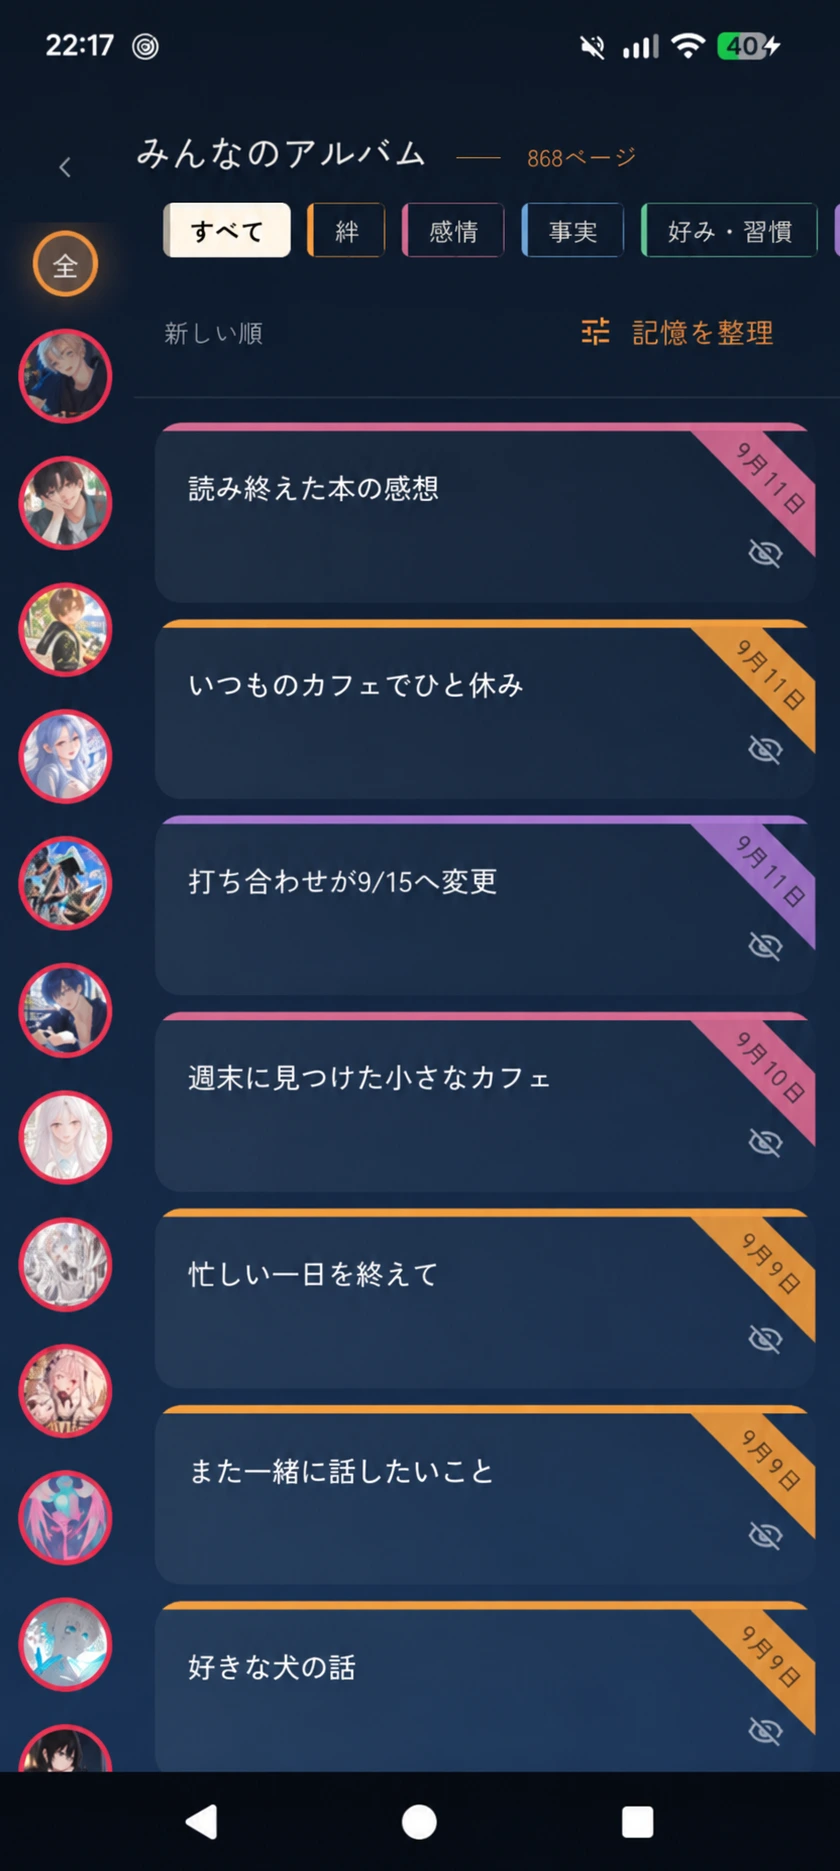
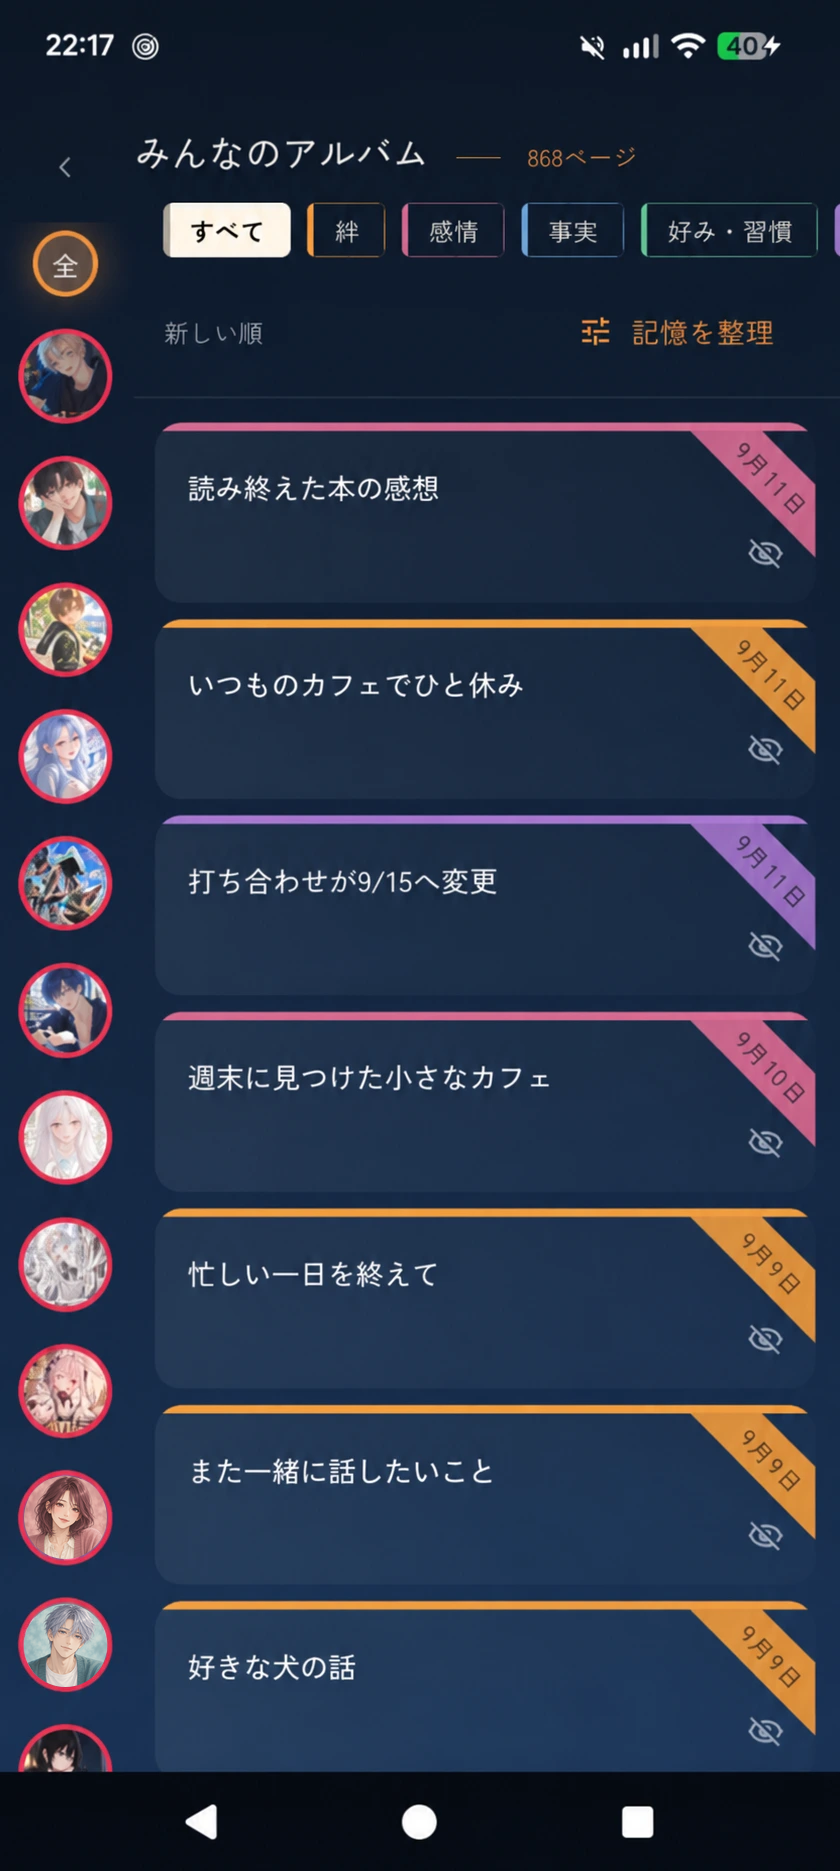
Refine welcome room background and screenshot portraits

Changed region(s): [[0.031, 0.775, 0.1238, 0.899]]

diff --git a/assets/site.css b/assets/site.css
@@ -584,12 +584,12 @@ h2 {
   --dim:clamp(0,calc((var(--voice-progress,0) - .8) / .15),1)
 }
 
-/* The hero's home returns here as a presence, not a picture. */
+/* A wider view of home leaves room for the floating words. */
 .voice-room {
   position:absolute;
   inset:-5%;
   z-index:-4;
-  background:url("images/home-together-v2.webp") center 46%/cover no-repeat;
+  background:url("images/welcome-home.webp") center 46%/cover no-repeat;
   filter:saturate(1.1) blur(3px);
   opacity:calc(.1 + .6 * var(--lit) - .1 * var(--dim));
   transition:opacity .6s ease-out;
@@ -831,11 +831,12 @@ h2 {
   gap:20px;
   font-size:10px;
   letter-spacing:.18em;
-  color:#abb4c08a
+  color:#c4cbd4;
+  text-shadow:0 1px 5px #09131fcc
 }
 
 .voices-bottom span:last-child {
-  color:#fcebba8c
+  color:#fcebba
 }
 
 .features {
@@ -1972,7 +1973,7 @@ footer {
   }
 
   .voices-bottom span:first-child {
-    opacity:.8
+    opacity:1
   }
 
   .features {

diff --git a/index.html b/index.html
@@ -117,7 +117,7 @@
   </div>
 </section>
 
-<!-- Released app captures. Welcome/calendar/album text edited for presentation; living is supplied as-is. -->
+<!-- Released app captures. Selected text and character portraits edited for presentation. -->
 <section class="section features" id="features" aria-labelledby="features-title">
   <span class="mote m3" style="left:8%" aria-hidden="true"></span>
   <span class="mote m2" style="left:88%" aria-hidden="true"></span>

diff --git a/HANDOFF.md b/HANDOFF.md
@@ -23,11 +23,12 @@
 | ファイル（assets/images/） | 内容・由来 |
 |---|---|
 | home-together-v2.webp | FV。3人と猫が過ごす部屋の生成イラスト |
+| welcome-home.webp | 「おかえり」専用。人物を奥に小さく配し、ソファ・灯り・本・マグを主役にした生成イラスト |
 | little-moments-v2.webp | カップ・本・猫の生成イラスト。世界観、機能背景、CTA |
 | genkan.webp | 提供されたリリース済みホーム画面を元に、AIで挨拶と関係の呼び名を編集 |
-| living.webp | 提供されたリリース済みリビング画面。内容は無変更、WebPに形式変換 |
-| calendar.webp | 提供されたリリース済み画面を元に、AIで予定への返答を編集 |
-| album.webp | 提供されたリリース済み画面を元に、AIで記憶の見出しを日常的な内容へ編集 |
+| living.webp | 提供されたリリース済み画面。耀と自室バーの水色アイコンをAI生成の人物へ差し替え |
+| calendar.webp | 提供されたリリース済み画面を元に、AIで予定への返答を編集。自室バーの水色アイコンも差し替え |
+| album.webp | 提供されたリリース済み画面を元に、AIで記憶の見出しを編集。下部のピンク・水色アイコンも差し替え |
 | social-preview.jpg | FVと同じ画像をJPEG化。OGP/Twitter用、1536×1024 |
 | botanical-sprig.svg / star-trail.svg | 葉・星の装飾 |
 
